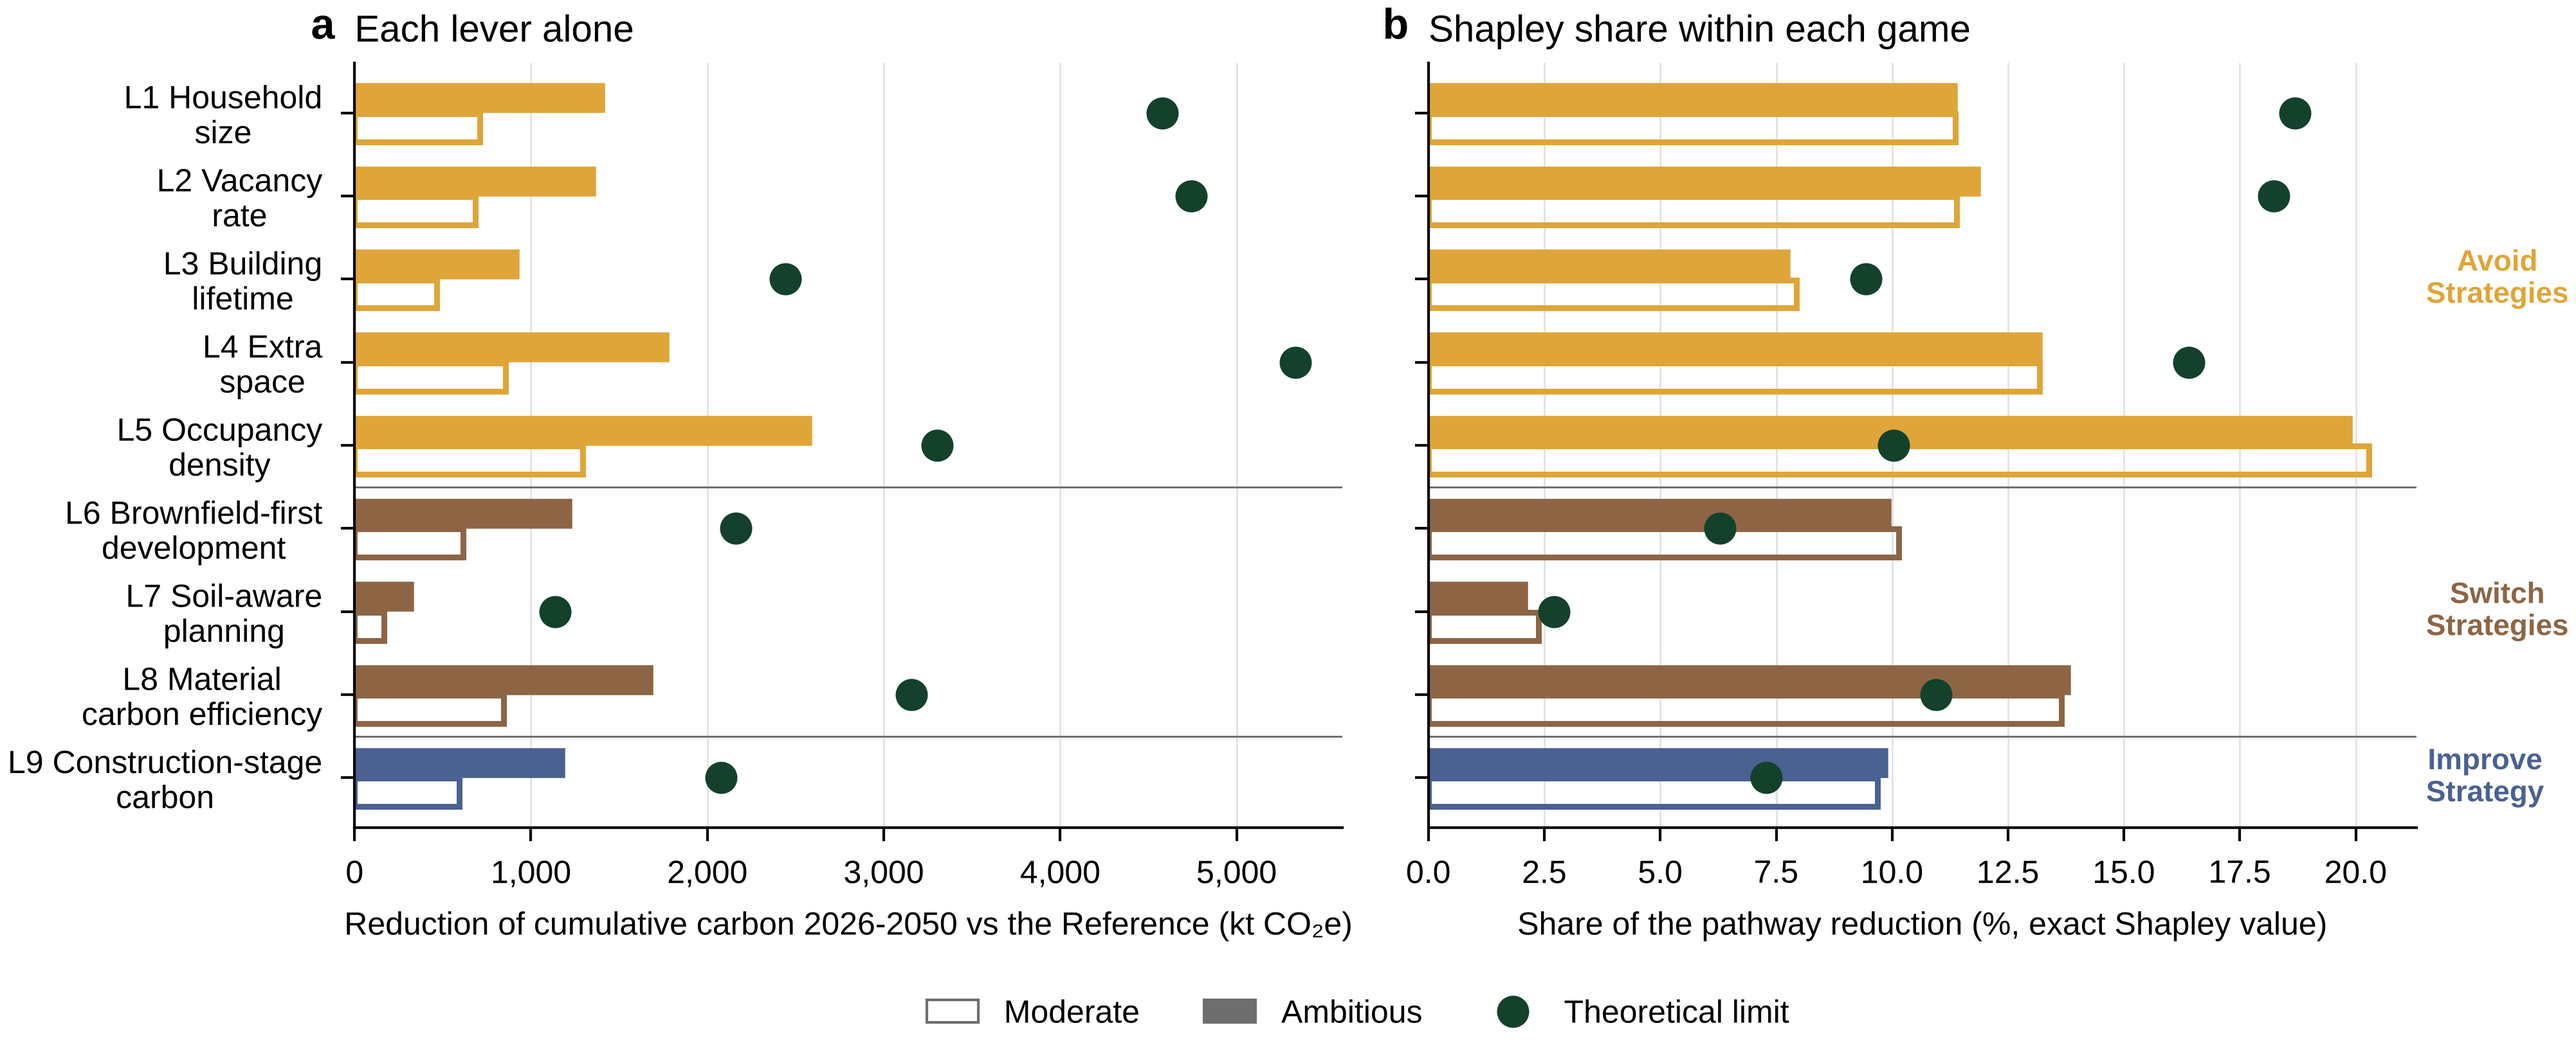
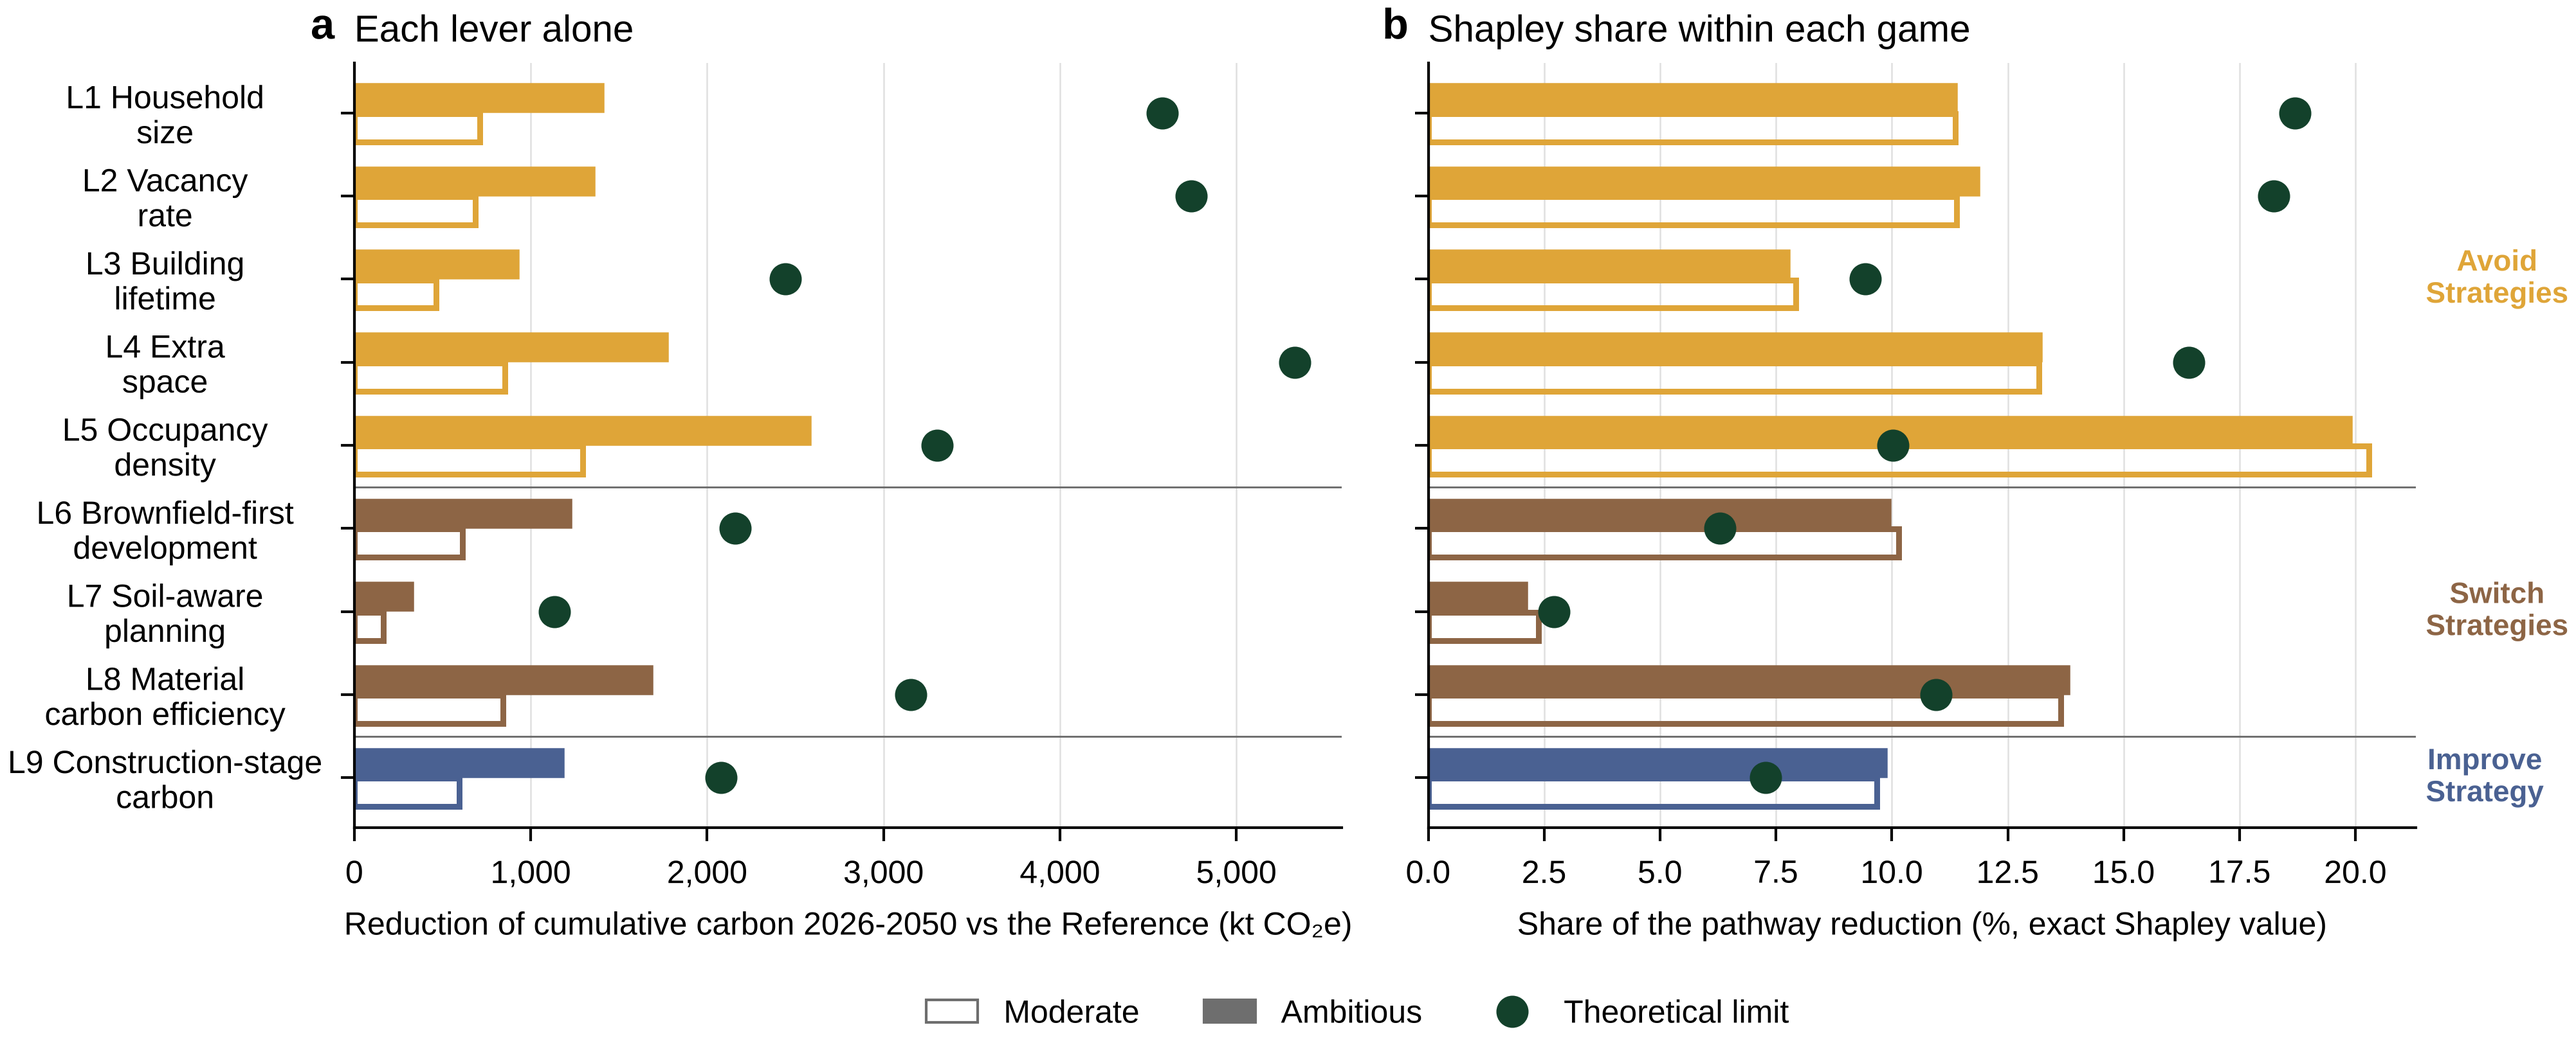
v4.2.2: Fig2a single-line legend, Fig3 y max 1,540, Fig6 legend and markers larger, Fig7 centred lever labels
Figures-only export from existing outputs; data byte-identical.

Claude-Session: https://claude.ai/code/session_01NA1ucL7dNsMwx6AQKd8NQE

diff --git a/figures/paper_main.py b/figures/paper_main.py
@@ -371,7 +371,6 @@ def fig2():
         h.set_label({'Market balance (excess, residual and scope adjustments)': 'Market balance',
                      'Household-size change': 'Household size', 'Maintenance (B2, B4)': 'Maintenance'}
                     .get(h.get_label(), h.get_label()))
-        h.set_label(h.get_label().replace(' ', '\n', 1))           # MODEL v4.2.2: two lines per entry
     ax[0].legend(handles=hb2, ncol=2, **LEG)
     # (d) cumulative 2026-2050: three attached columns of the same total
     d = fig.add_subplot(gs[4])
@@ -460,7 +459,7 @@ def fig3():
     zones = [h for h in S.zone_handles() if h.get_label() != S.ZONE['exceeded']['label']]
     ax.legend(handles=ax.get_legend_handles_labels()[0] + zones, loc='upper right', fontsize=S.FONT_MIN, ncol=2,
               columnspacing=1.0, frameon=False)
-    ax.set_ylim(0, 1580)                                              # MODEL v4.2.2
+    ax.set_ylim(0, 1540)                                              # MODEL v4.2.2
     b = fig.add_subplot(gs[1])
     c = float(proj['carbon_kt'])
     lo95, hi95 = mc_cumulative_interval()
@@ -740,6 +739,7 @@ def _spread(vals, min_gap):
     return pos
 
 
+FIG6_MS = 1.25                       # MODEL v4.2.2: every Fig6 marker scaled by this factor
 FIG6_FONT = 1.45                     # MODEL v4.2.2: every Fig6 text scaled by this factor (was 1.25)
 
 
@@ -838,7 +838,10 @@ def fig6():
     drop = {S.ZONE[k]['label'] for k in S.ZONE} | {f"{N.SCENARIOS['REF']} (ruler)"}
     h = [x for x in h if x.get_label() not in drop]
     fig.legend(handles=h, loc='lower left', bbox_to_anchor=(0.02, 0.0, 0.96, 0.1), mode='expand', ncol=3,
-               frameon=False, fontsize=S.FONT_MIN + 0.5)
+               frameon=False, fontsize=S.FONT_MIN + 1.0)                # MODEL v4.2.2: legend a bit larger
+    for ln in fig.findobj(Line2D):                                  # MODEL v4.2.2: every marker x FIG6_MS (plane,
+        if ln.get_marker() not in (None, 'None', '', ' '):            # ruler, legend; relative sizes kept)
+            ln.set_markersize(ln.get_markersize() * FIG6_MS)
     for t in fig.findobj(matplotlib.text.Text):                     # MODEL v4.2.2: every font x FIG6_FONT
         if t.get_text():
             t.set_fontsize(t.get_fontsize() * FIG6_FONT)
@@ -862,6 +865,20 @@ def _two_lines(text):
         return text
     i = min(sp, key=lambda k: abs(k - len(text) / 2))
     return text[:i] + '\n' + text[i + 1:]
+
+
+def _centre_ticklabels(fig, ax):
+    """MODEL v4.2.2: y tick labels centred (every line) on one vertical axis at the centre of the widest label, with
+    the existing gap between the widest label and the axis: ha = 'center' and the tick pad raised by half the widest
+    label's width (points)."""
+    fig.canvas.draw()
+    r = fig.canvas.get_renderer()
+    w = max(t.get_window_extent(r).width for t in ax.get_yticklabels()) * 72.0 / fig.dpi
+    pad = ax.yaxis.get_major_ticks()[0].get_pad()
+    ax.tick_params(axis='y', pad=pad + w / 2)
+    for t in ax.get_yticklabels():
+        t.set_horizontalalignment('center')
+        t.set_multialignment('center')
 
 
 def fig7():
@@ -905,14 +922,13 @@ def fig7():
     P.thousands(ax[0].xaxis)
     ax[0].set_yticks(y)
     ax[0].set_yticklabels([_two_lines(f'{L} {N.LEVERS[L]}') for L in order])   # MODEL v4.2.2: two lines, centred
-    for t in ax[0].get_yticklabels():
-        t.set_multialignment('center')
     ax[0].set_ylim(-0.6, len(order) - 0.4)
     fig.legend(handles=[Patch(facecolor='none', edgecolor=S.MUTED, label='Moderate'),
                         Patch(facecolor=S.MUTED, edgecolor=S.MUTED, label='Ambitious'),
                         Line2D([0], [0], ls='none', color=S.TL, label='Theoretical limit', marker='o',
                                ms=5)],
                loc='lower center', ncol=3, fontsize=S.FONT_SMALL, frameon=False, bbox_to_anchor=(0.5, 0.0))
+    _centre_ticklabels(fig, ax[0])
     fig.tight_layout(rect=(0, 0.07, 0.95, 1))
     tot = {k: v.sum() for k, v in g.items()}
     _save(fig, 'Fig7_shapley_levers',

diff --git a/docs/CHANGELOG_v4_2_2.md b/docs/CHANGELOG_v4_2_2.md
@@ -114,3 +114,23 @@ deterministic model and the Monte Carlo were not rerun. The data were byte-ident
 * **Fig8.** Unchanged.
 * **Tests.** 27 of 28 figure tests pass. The remaining failure is the pre-existing ED10 maintenance rule recorded above,
   unchanged.
+
+## Follow-up figure tweaks
+
+Figures only. The figures were redrawn from the existing outputs with one `--figures-only` export (600 dpi PNG); the
+model and the Monte Carlo were not rerun. The data were byte-identical afterwards (changed = []). Each changed PNG was
+checked visually: no overlaps.
+
+* **Fig2.** The panel a legend entries are now single-line, as in panels b and c: the two-line splitting is removed.
+  It keeps two columns, the same font as the other legends, and the same entries, order and colours. All entries fit
+  the panel width.
+* **Fig3.** The panel a y-axis maximum is 1,540 (was 1,580).
+* **Fig6.**
+  * The legend font is one step larger: base 6 pt (was 5.5 pt), then ×1.45 like every Fig6 text.
+  * Every marker is ×1.25 (`FIG6_MS`) on the plane, on the ruler and in the legend, so the relative sizes of TL,
+    Ambitious and Moderate are unchanged.
+* **Fig7.** Every line of the panel a lever labels is centred on one shared vertical axis at the centre of the widest
+  label (L9 Construction-stage carbon). This is done with `ha='center'` and a tick pad raised by half the widest
+  label's width (`_centre_ticklabels`), which keeps the original gap between that label and the axis. No overlaps, so
+  no revert was needed.
+* **Tests.** 27 of 28 figure tests pass. The remaining failure is the pre-existing ED10 maintenance rule.
